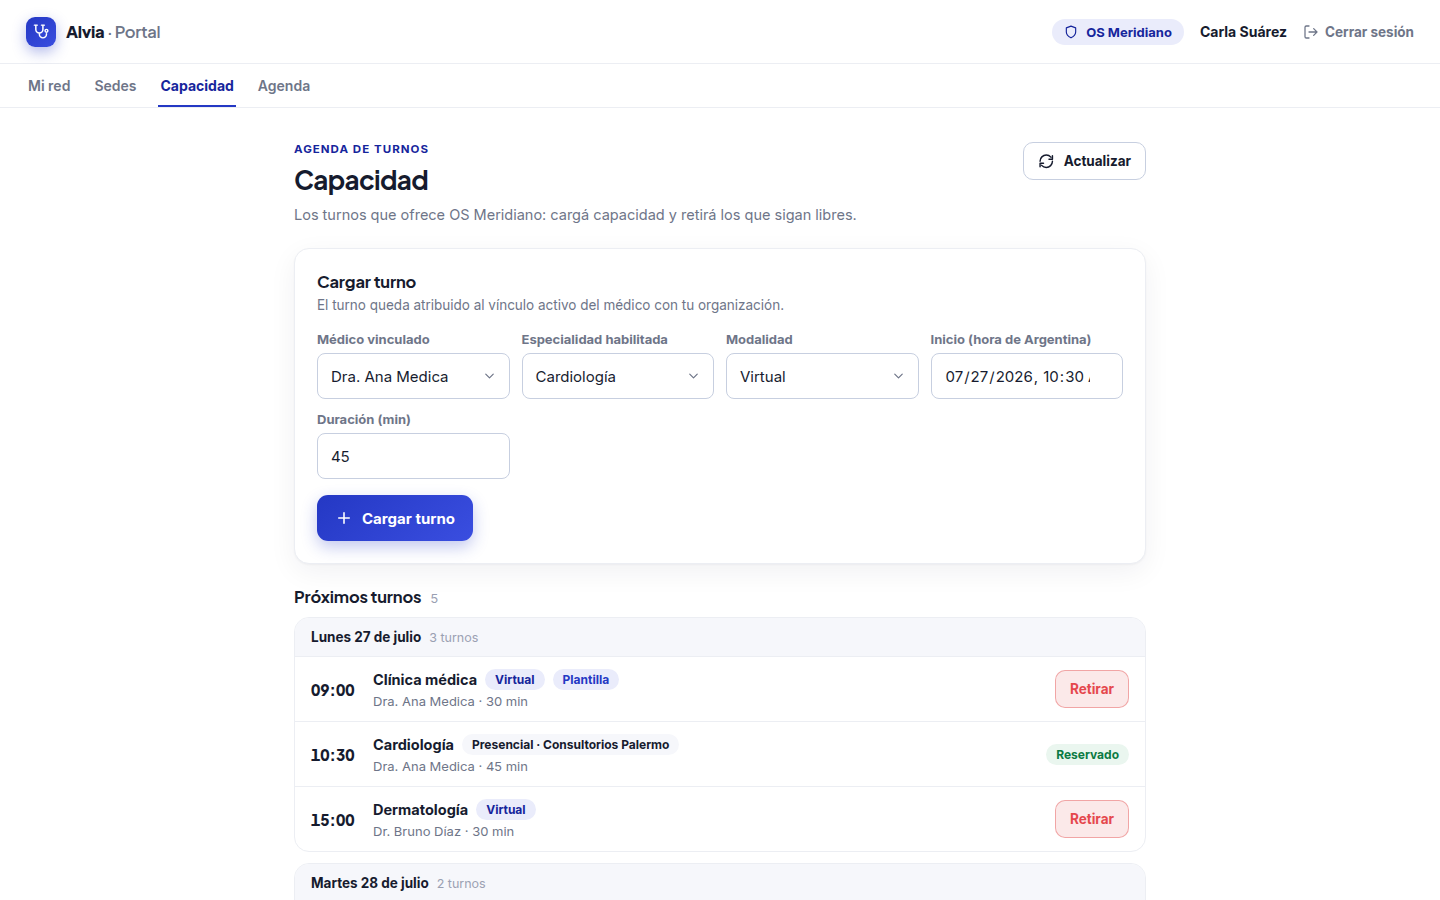
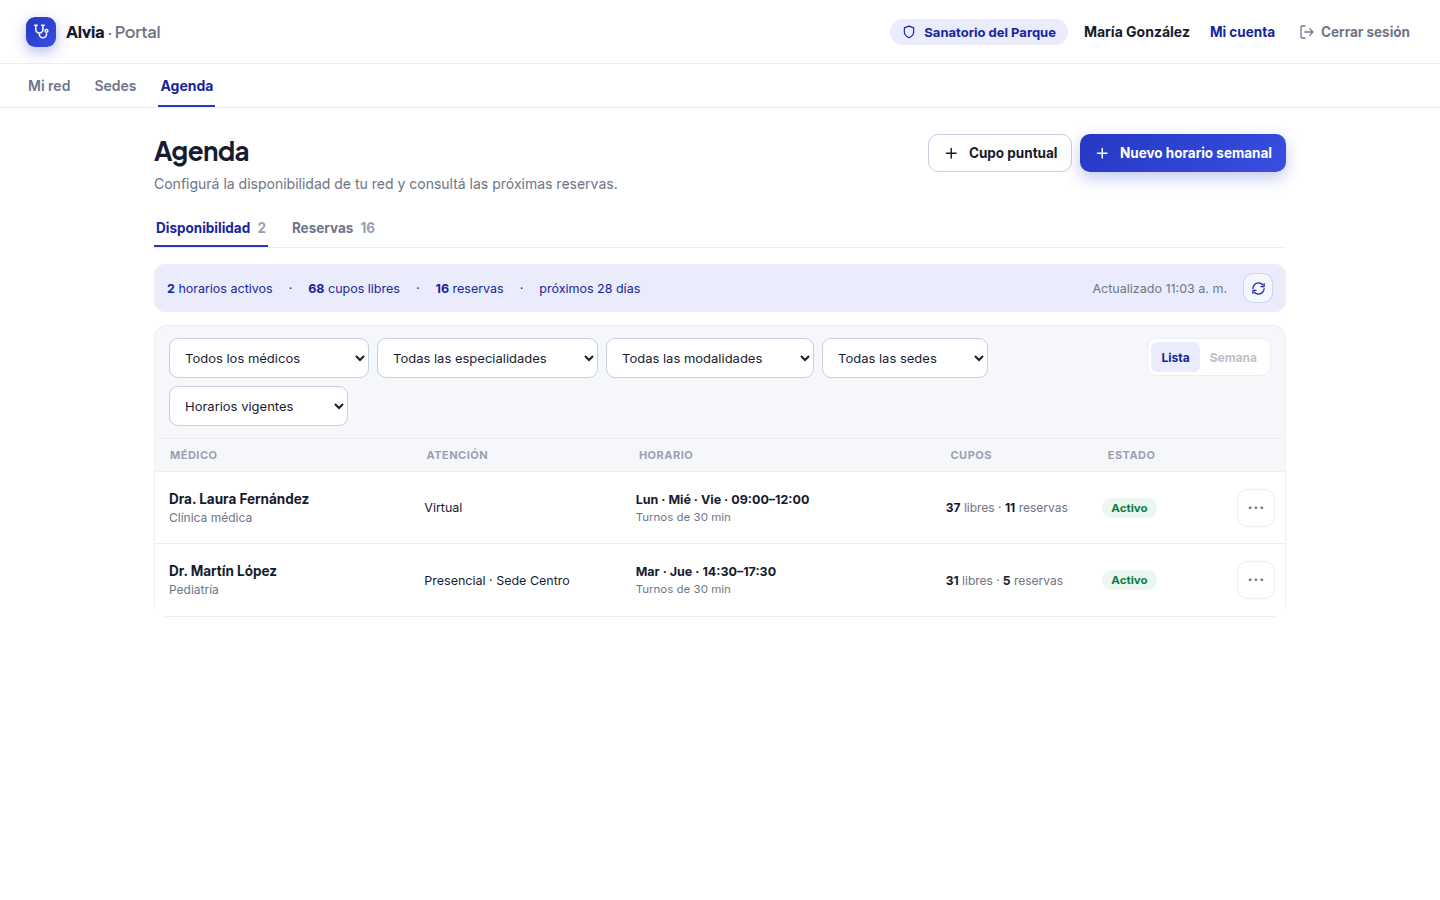
fix: refresh provider agenda capture

diff --git a/v2/index.html b/v2/index.html
@@ -184,9 +184,9 @@
             <div class="product-shot-stack">
               <figure class="product-shot product-shot--desktop">
                 <div class="product-shot-media">
-                  <img src="assets/mockup-operacion.png" alt="Portal de la organización para gestionar capacidad y turnos">
+                  <img src="assets/mockup-operacion.png" alt="Agenda del portal de la organización con disponibilidad, reservas y horarios semanales">
                 </div>
-                <figcaption>Portal de la organización · Capacidad y turnos</figcaption>
+                <figcaption>Portal de la organización · Disponibilidad y reservas</figcaption>
               </figure>
               <figure class="product-shot product-shot--desktop">
                 <div class="product-shot-media">

diff --git a/v3/index.html b/v3/index.html
@@ -225,7 +225,7 @@
         </ol>
       </div>
       <div class="shell operation-proof">
-        <figure><img src="assets/mockup-operacion.png" alt="Portal para gestionar capacidad y turnos"><figcaption>Portal de la organización · Capacidad y turnos</figcaption></figure>
+        <figure><img src="assets/mockup-operacion.png" alt="Agenda del portal de la organización con disponibilidad, reservas y horarios semanales"><figcaption>Portal de la organización · Disponibilidad y reservas</figcaption></figure>
         <figure><img src="assets/mockup-postconsulta-medica.png" alt="Historial de consultas finalizadas"><figcaption>Consola médica · Historial de consultas</figcaption></figure>
       </div>
     </section>

diff --git a/WEB_INSTITUCIONAL_DOCS.md b/WEB_INSTITUCIONAL_DOCS.md
@@ -116,7 +116,7 @@ V2 y V3 cargan `DM Sans` y `Noto Serif` desde Google Fonts. Si esas fuentes no e
 
 ### Capturas renderizadas de producto
 
-Las siguientes imágenes son renders rasterizados de interfaces implementadas en los canvases de producto de `telemed-starter`; no son ilustraciones genéricas creadas para la landing:
+Las siguientes imágenes son renders rasterizados de interfaces implementadas en los productos de `telemed-starter`; no son ilustraciones genéricas creadas para la landing:
 
 | Asset | Superficie representada |
 |---|---|
@@ -125,11 +125,11 @@ Las siguientes imágenes son renders rasterizados de interfaces implementadas en
 | `console-medica.png` | Consola médica durante la videoconsulta |
 | `mockup-postconsulta-paciente.png` | Receta electrónica disponible para el afiliado |
 | `mockup-postconsulta-medica.png` | Historial de consultas finalizadas, notas y recetas |
-| `mockup-operacion.png` | Portal institucional de capacidad y turnos |
+| `mockup-operacion.png` | Agenda institucional vigente: disponibilidad, reservas y horarios semanales |
 
 Los datos visibles son fixtures de demostración. No deben reemplazarse por datos reales de pacientes o profesionales.
 
-Los harnesses que regeneran estas imágenes permanecen en el monorepo privado `telemed-starter`, junto a los componentes fuente. Este repositorio contiene solamente los PNG finales necesarios para servir la web de forma independiente.
+Los harnesses que regeneran estas imágenes permanecen en el monorepo privado `telemed-starter`, junto a los componentes fuente. `mockup-operacion.png` se captura desde la implementación desplegada del portal con fixtures de demostración; las demás superficies se renderizan desde sus canvases sincronizados. Este repositorio contiene solamente los PNG finales necesarios para servir la web de forma independiente.
 
 ## 7. Enlaces y conversiones
 
